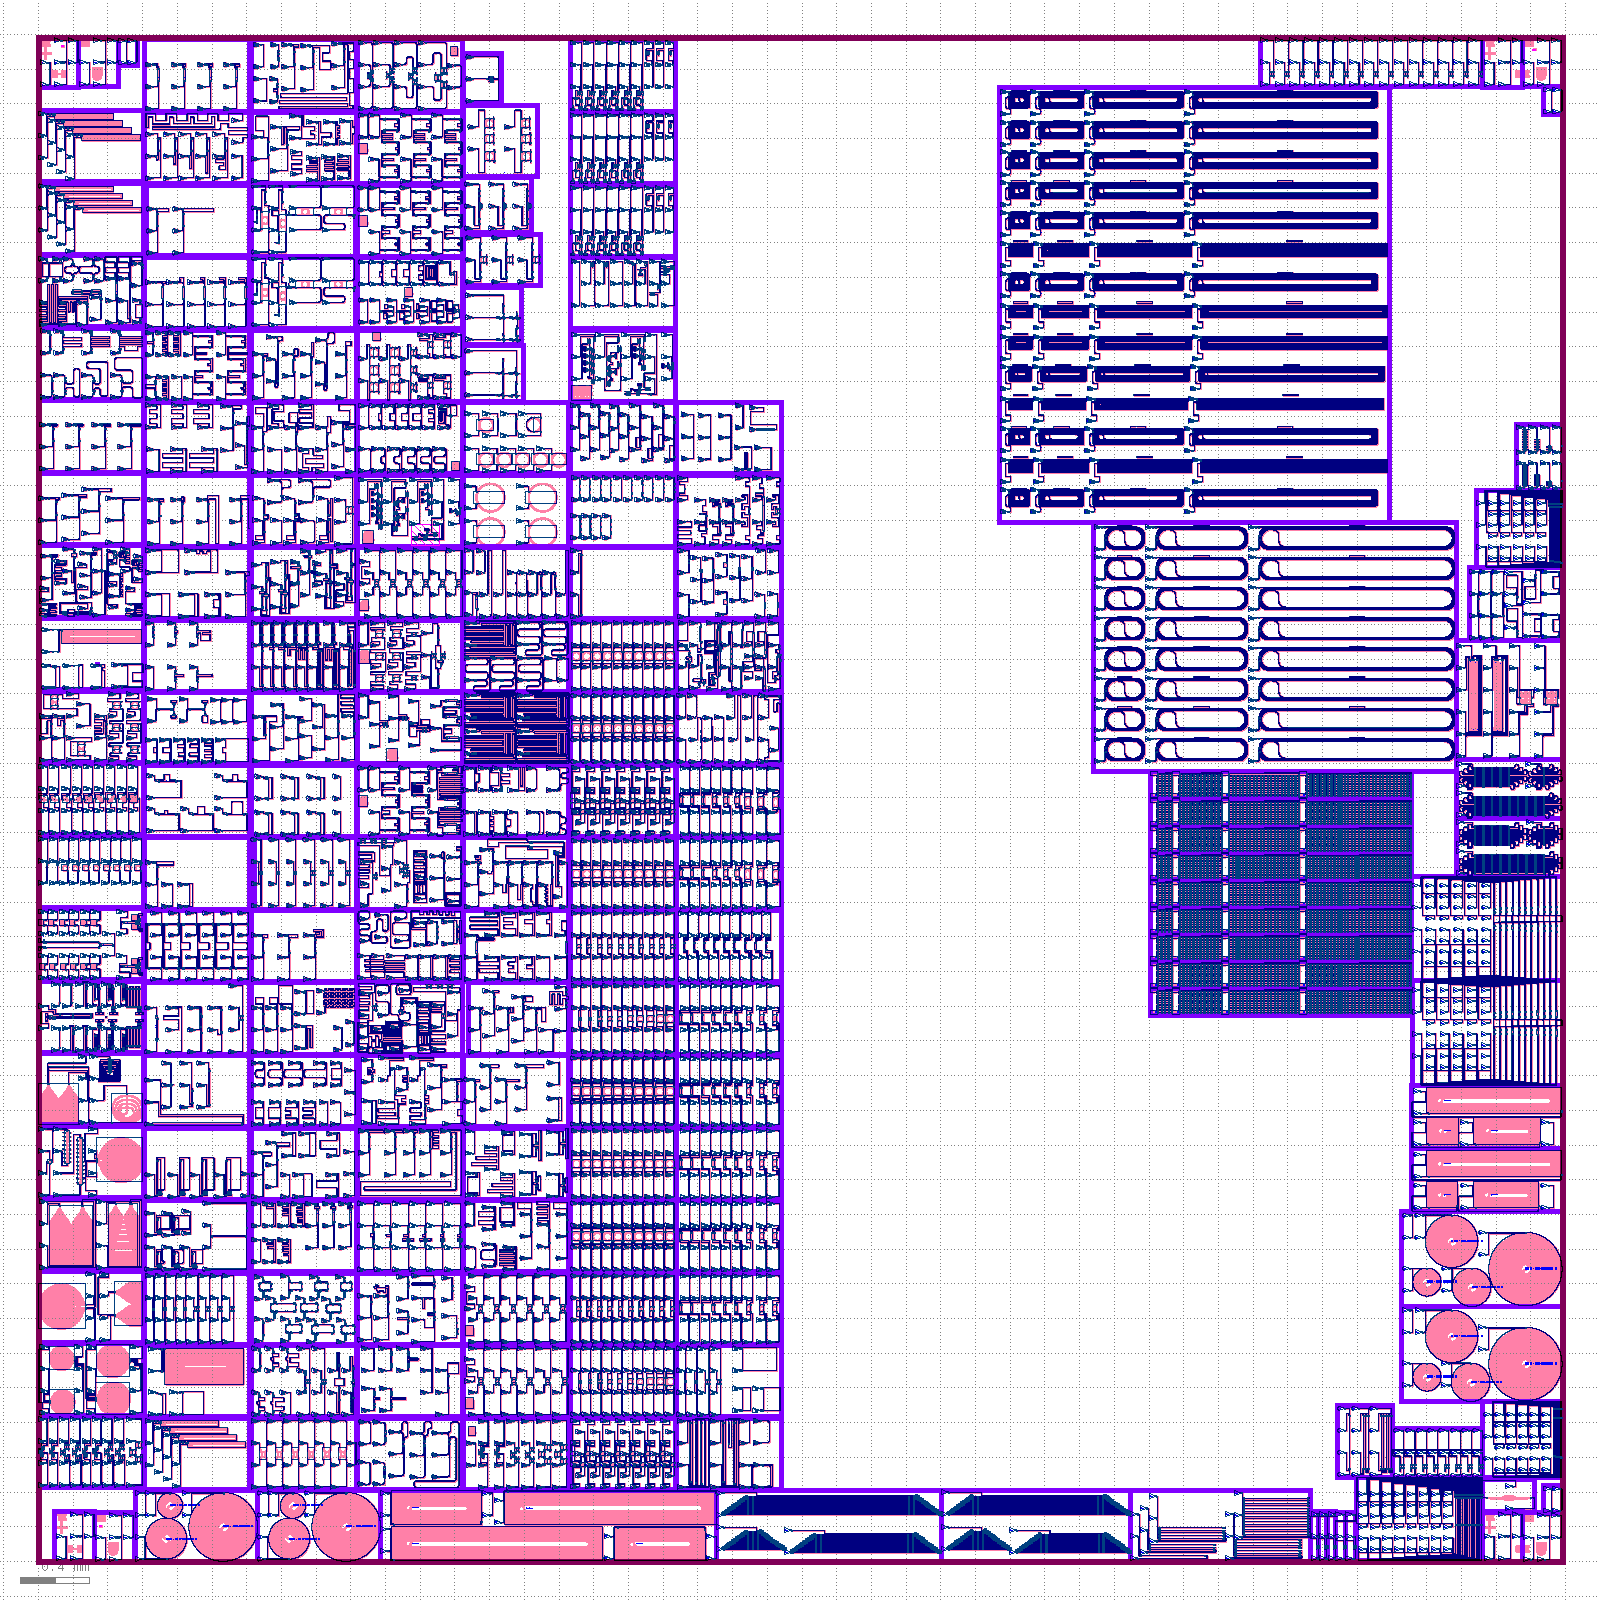
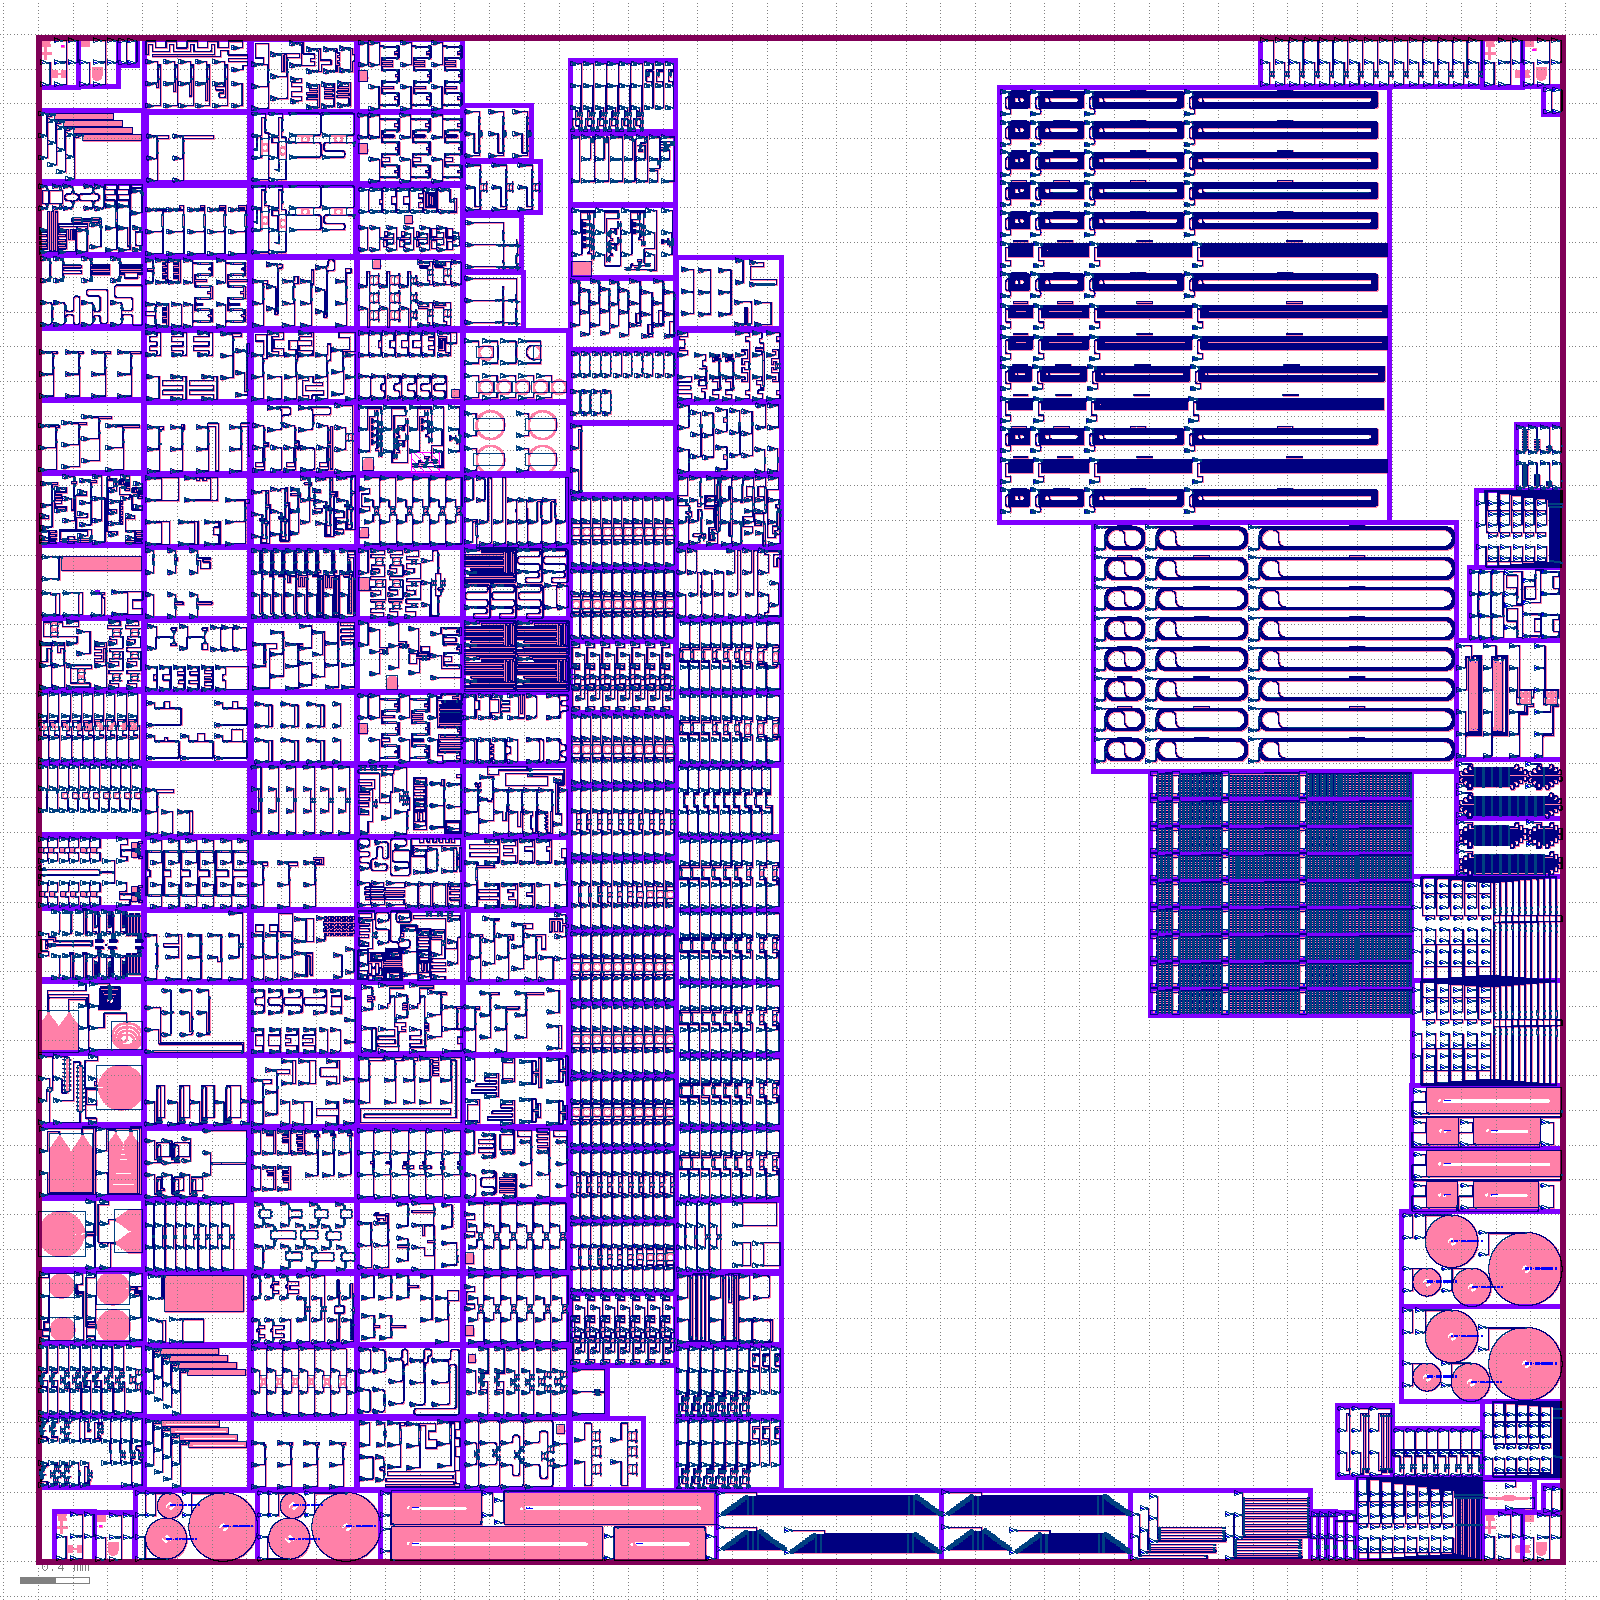
Aggregation layout: https://github.com/SiEPIC/openEBL-2026-05/actions/runs/25985718016/artifacts/7040767384

Changed region(s): [[0.0, 0.0, 0.5, 0.9375]]

diff --git a/README.md b/README.md
@@ -91,5 +91,5 @@ Will be added here.
 
 Click on the following link to download the EBeam.oas merged layout file:
 <!-- start-link -->
-https://github.com/SiEPIC/openEBL-2026-05/actions/runs/25985242055/artifacts/7040618385
+https://github.com/SiEPIC/openEBL-2026-05/actions/runs/25985718016/artifacts/7040767384
 <!-- end-link -->